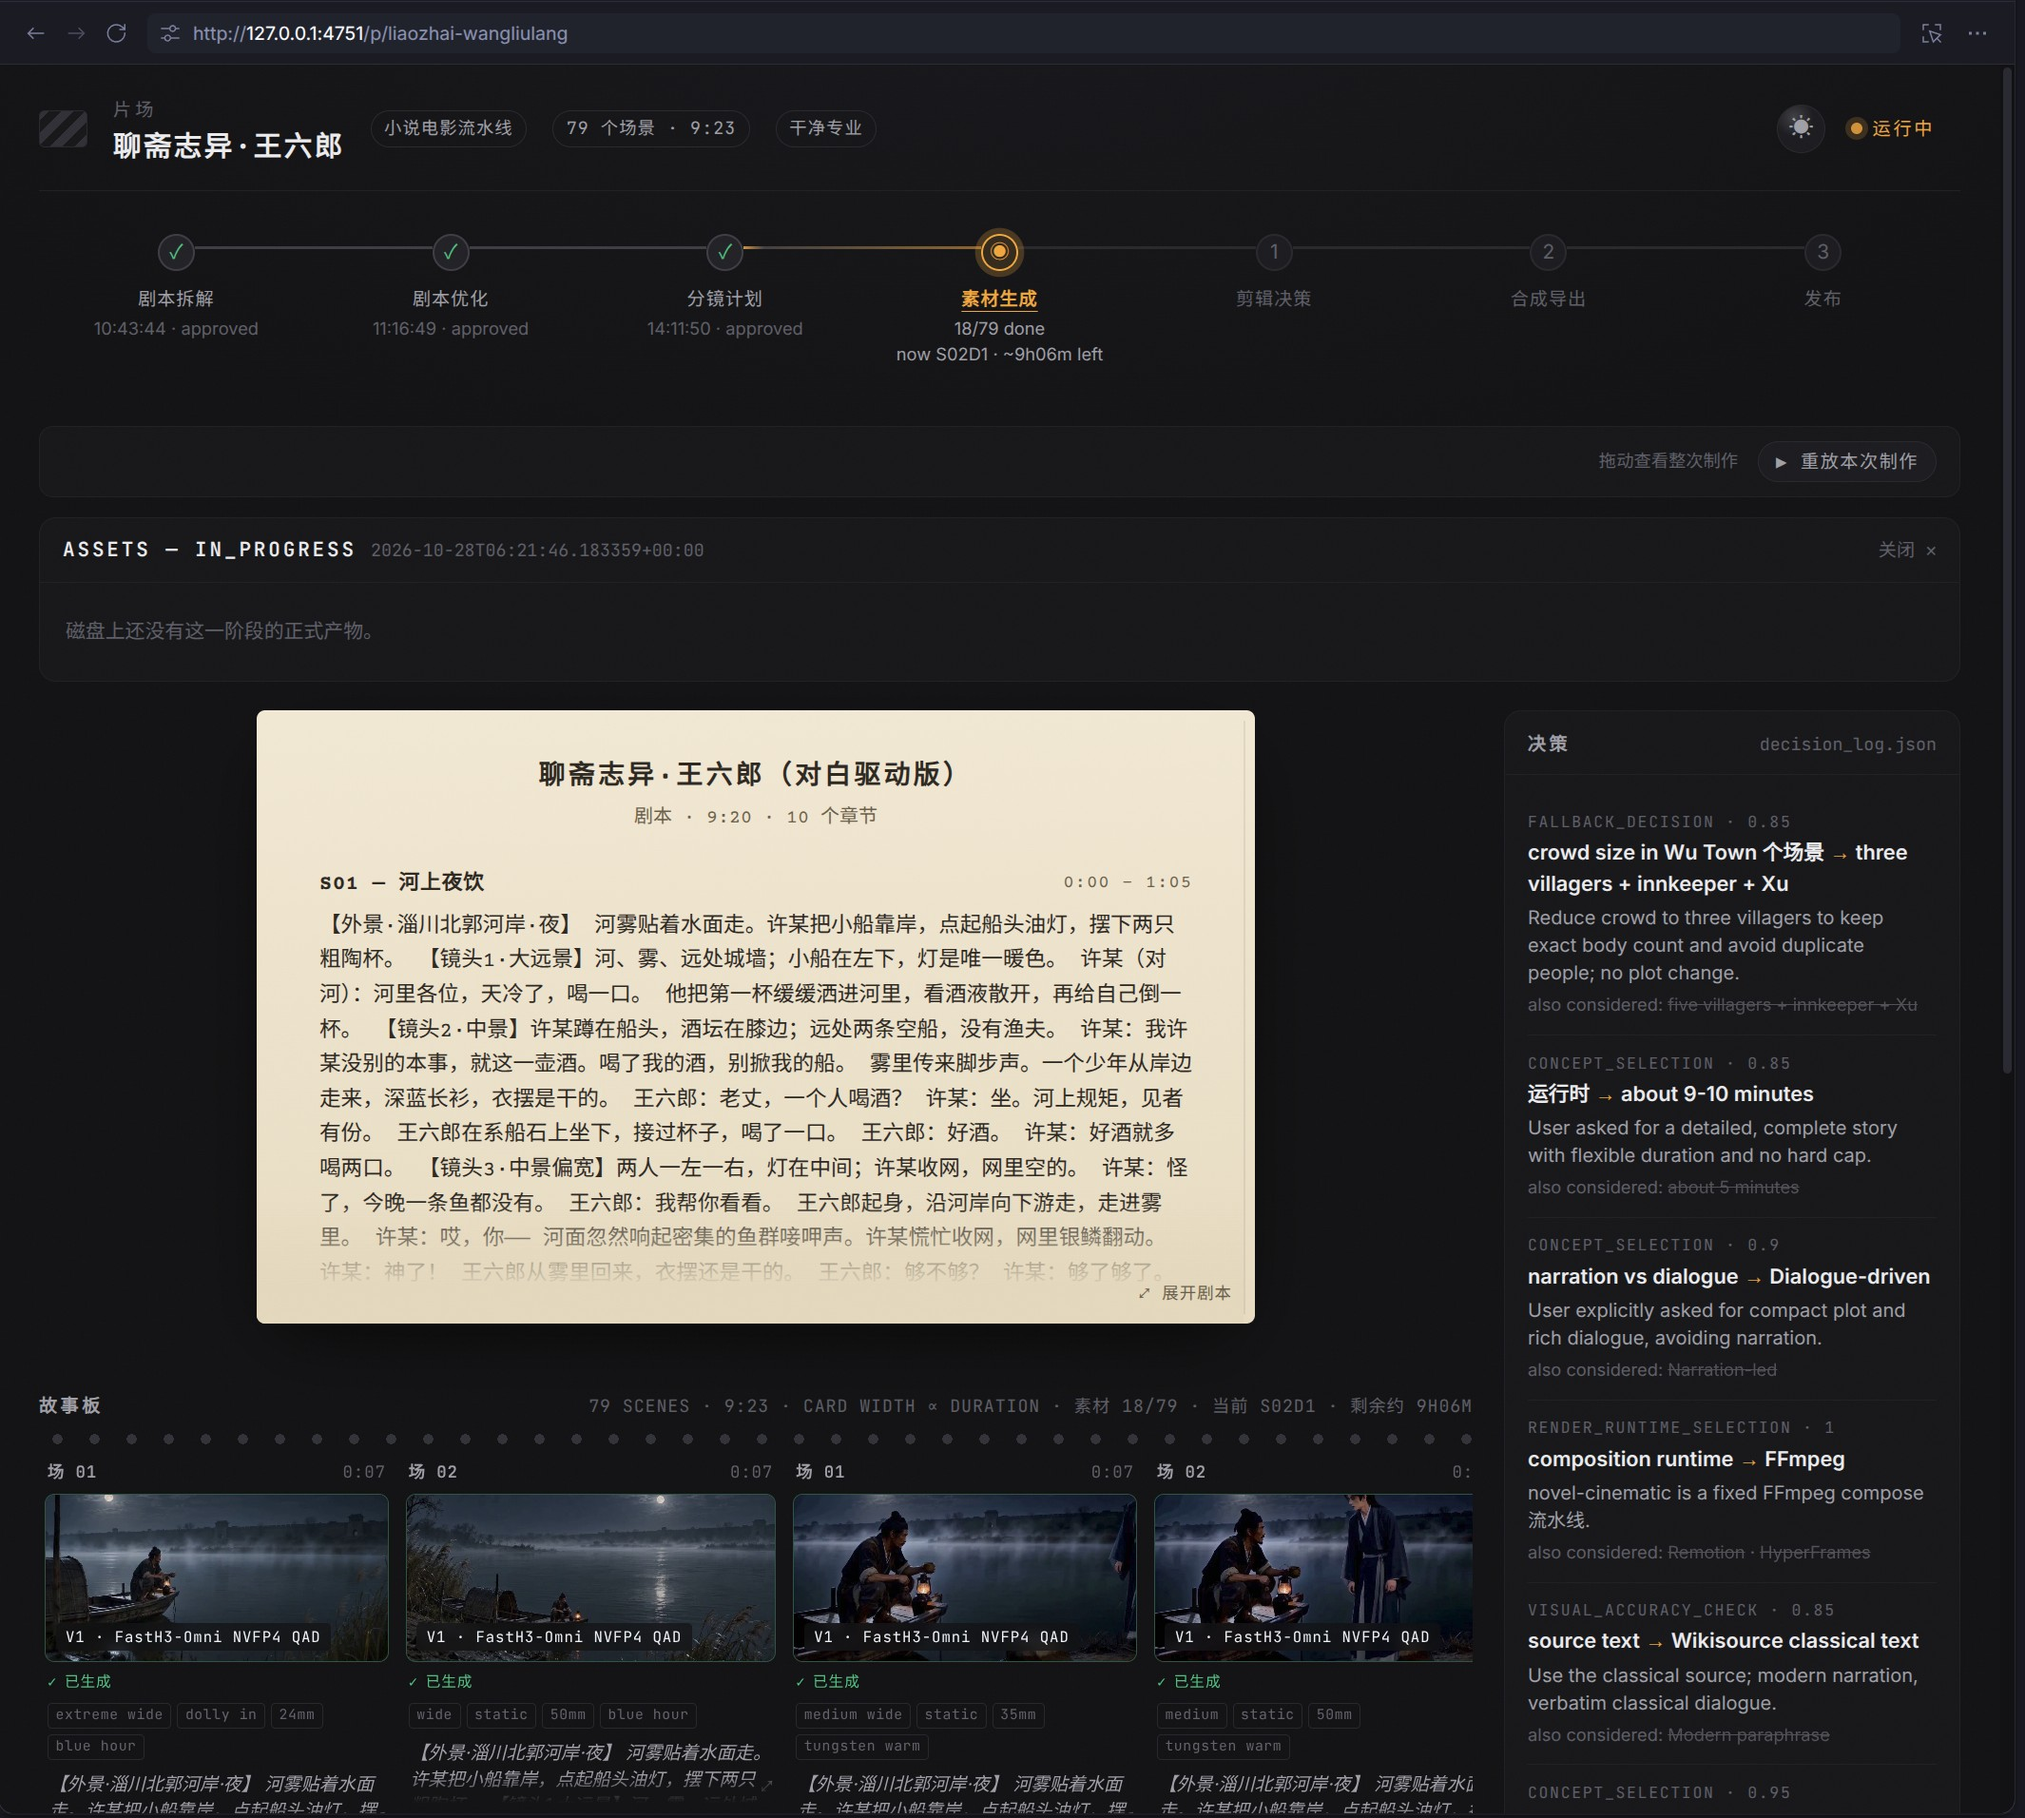
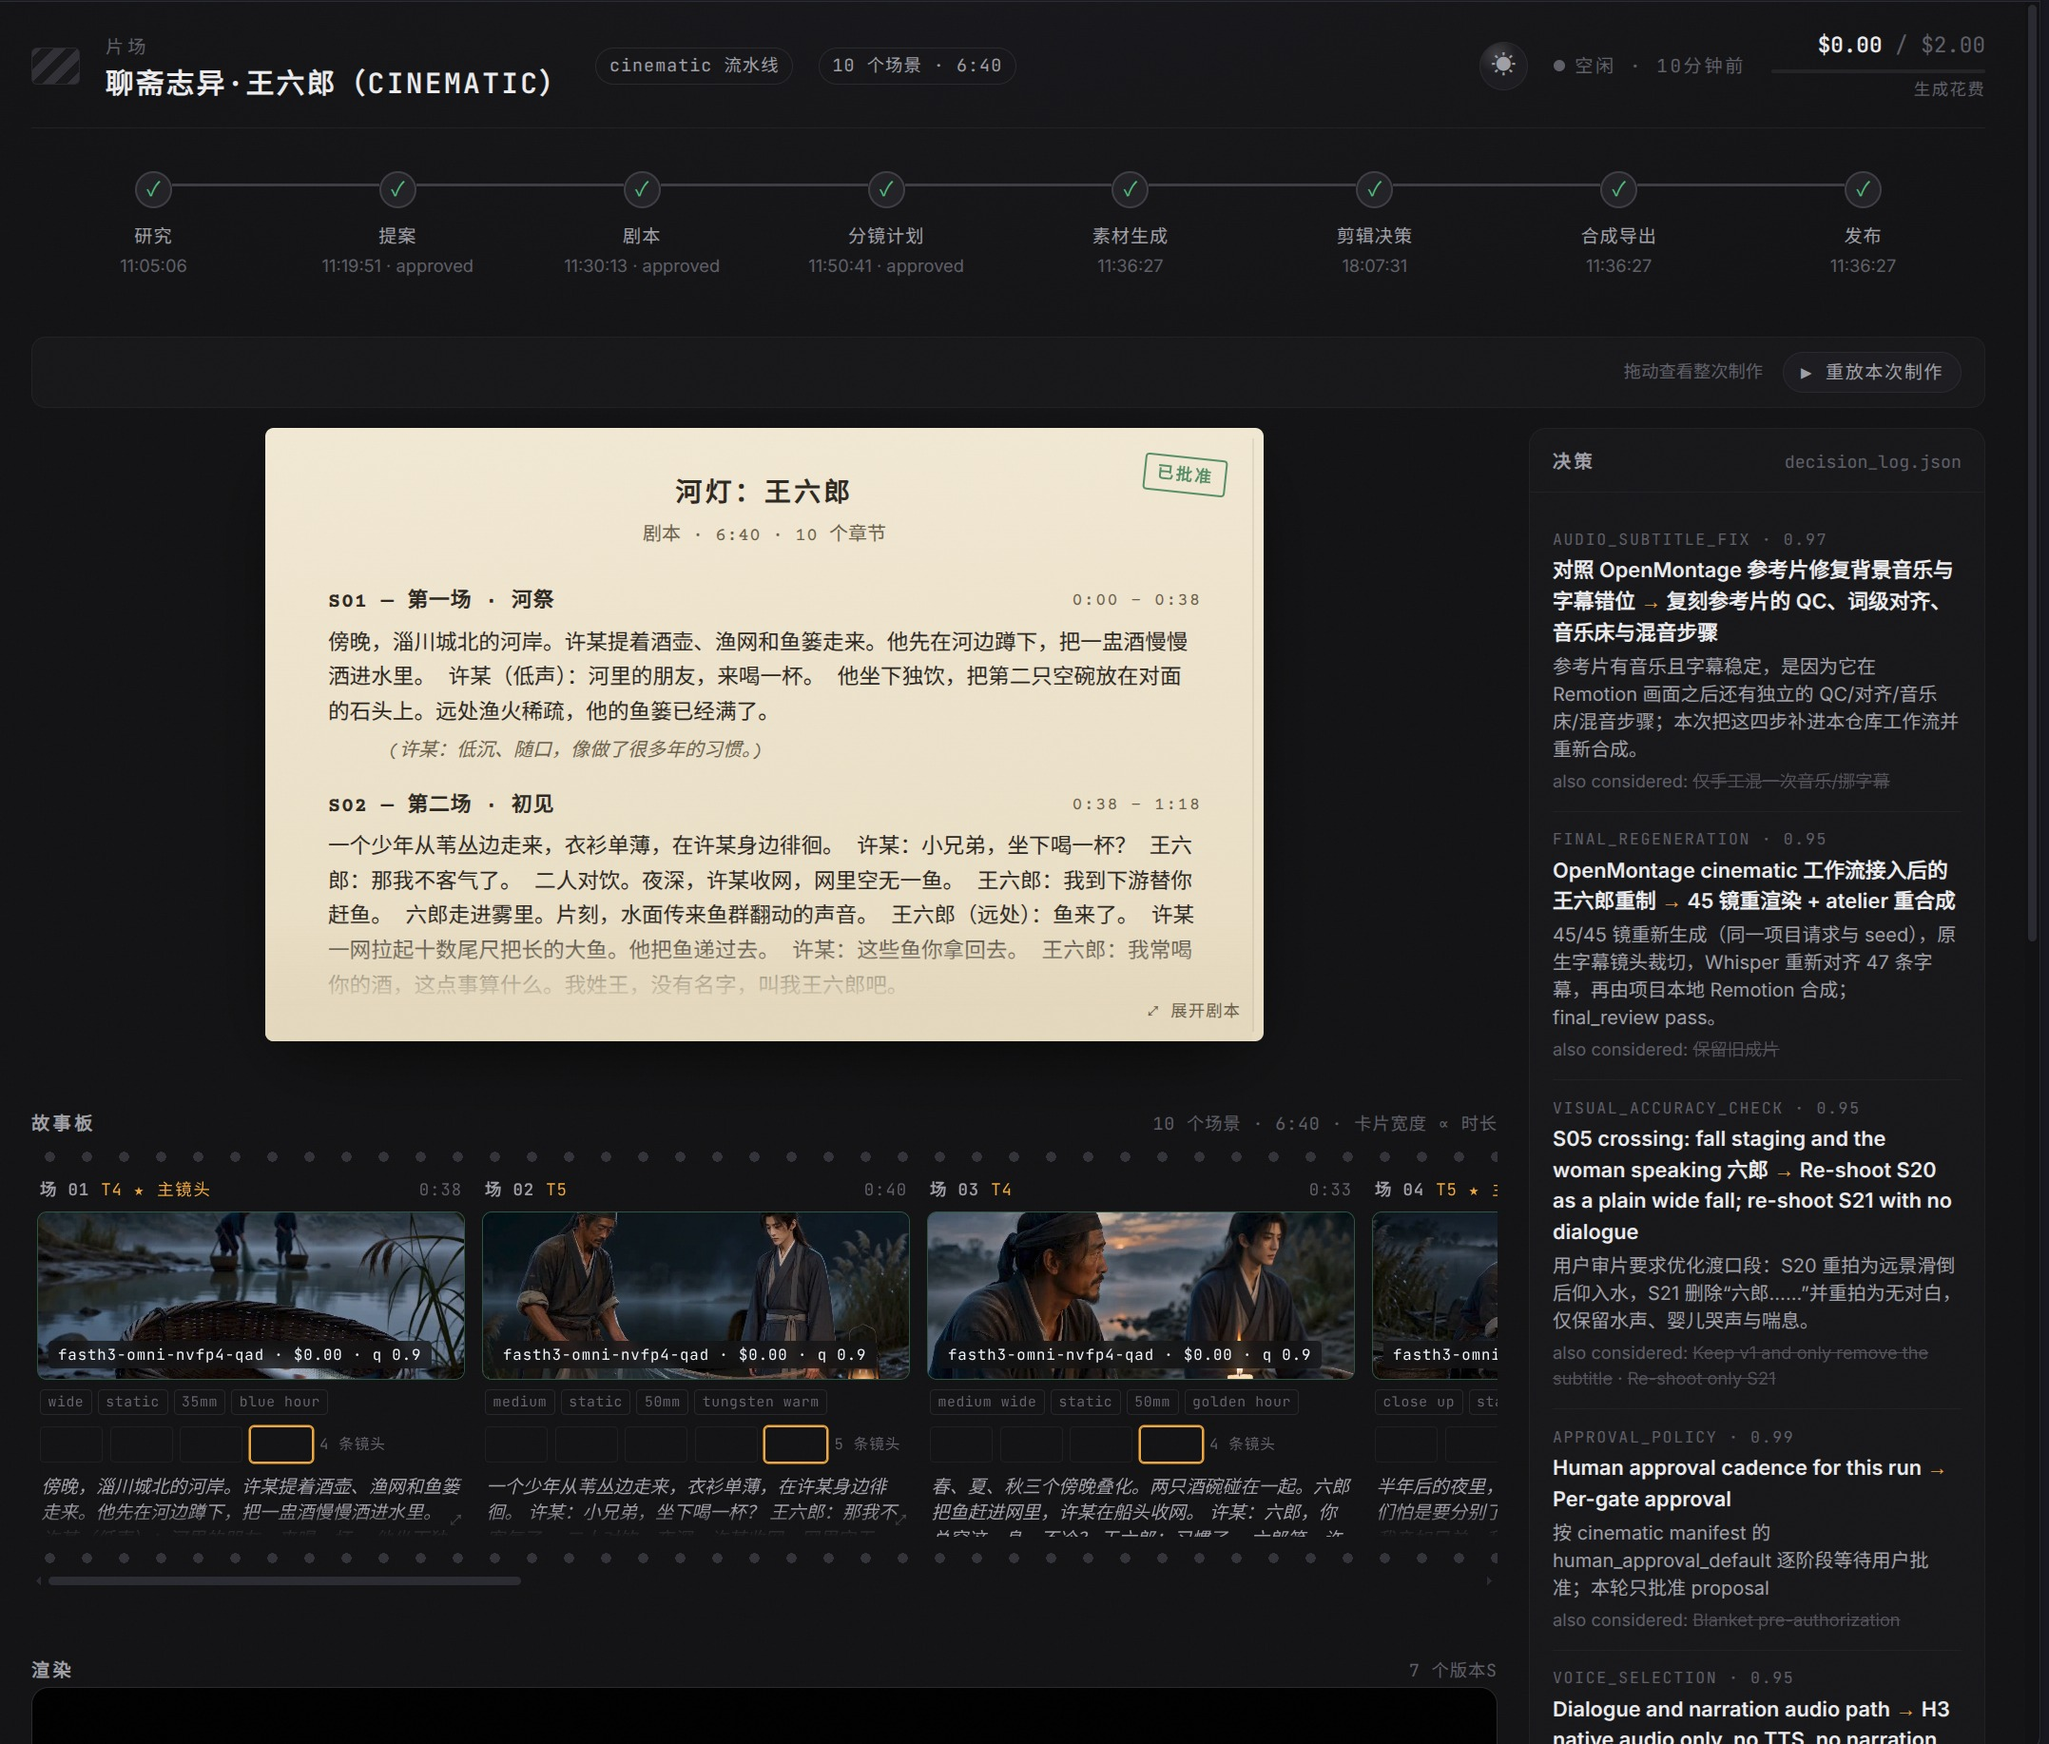
更新 README 工作台截图为最新王六郎项目看板

diff --git a/README.md b/README.md
@@ -11,6 +11,16 @@ research → proposal → script → scene_plan → assets → edit → compose 
 每个阶段都有 checkpoint、正式产物和导演技能。工作流入口是 `studio.py`，阶段规范以
 [`openmontage/AGENT_GUIDE.md`](openmontage/AGENT_GUIDE.md) 为准。
 
+## 工作台
+
+Backlot 中文制片看板直接读取 `projects/<id>/` 的阶段检查点、剧本、故事板、镜头版本与决策日志。
+
+![片场 ·《聊斋志异·王六郎（Cinematic）》工作台：8 个阶段、剧本、故事板、决策日志与渲染版本](docs/images/backlot-production.jpg)
+
+剧本审查视图：场次、台词归属与时间窗口。
+
+![剧本审查：场次、角色台词与时间窗口](docs/images/backlot-script.jpg)
+
 ## 当前项目
 
 ```text
